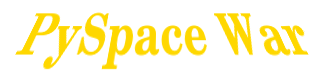
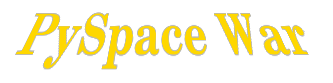
Make the NumPy dependency optional.
Had to edit the image a bit: Alpha To Selection, Invert, Fill with Black,
Clear, Save.  Otherwise PyGame ignored the alpha channel and found some
not-nice values in areas that were supposed to be transparent.

diff --git a/ui.py b/ui.py
@@ -10,7 +10,6 @@ import glob
 import random
 import itertools
 
-import Numeric
 import pygame
 from pygame.locals import *
 
@@ -409,12 +408,37 @@ class HUDTitle(HUDElement):
                             xalign, yalign)
         self.image = image
         self.alpha = 255
-        self.mask = pygame.surfarray.array_alpha(image).astype(Numeric.Int)
+        try:
+            import Numeric
+        except ImportError:
+            self.image = self.image.convert()
+            self.image.set_colorkey((0, 0, 0))
+            self.draw = self.draw_plainly
+        else:
+            self.mask = pygame.surfarray.array_alpha(image).astype(Numeric.Int)
+            self.draw = self.draw_using_Numeric
 
-    def draw(self, surface):
-        """Draw the element."""
+    def draw_plainly(self, surface):
+        """Draw the element.
+
+        Uses a color key and surface alpha, as an approximation of smooth fade
+        out.
+        """
         if self.alpha < 1:
             return
+        x, y = self.position(surface)
+        self.image.set_alpha(self.alpha)
+        surface.blit(self.image, (x, y))
+        self.alpha *= 0.95
+
+    def draw_using_Numeric(self, surface):
+        """Draw the element.
+
+        Scales the picture alpha channel smoothly using NumPy.
+        """
+        if self.alpha < 1:
+            return
+        import Numeric
         x, y = self.position(surface)
         array = pygame.surfarray.pixels_alpha(self.image)
         array[:] = (self.mask * self.alpha / 255).astype(Numeric.UnsignedInt8)
